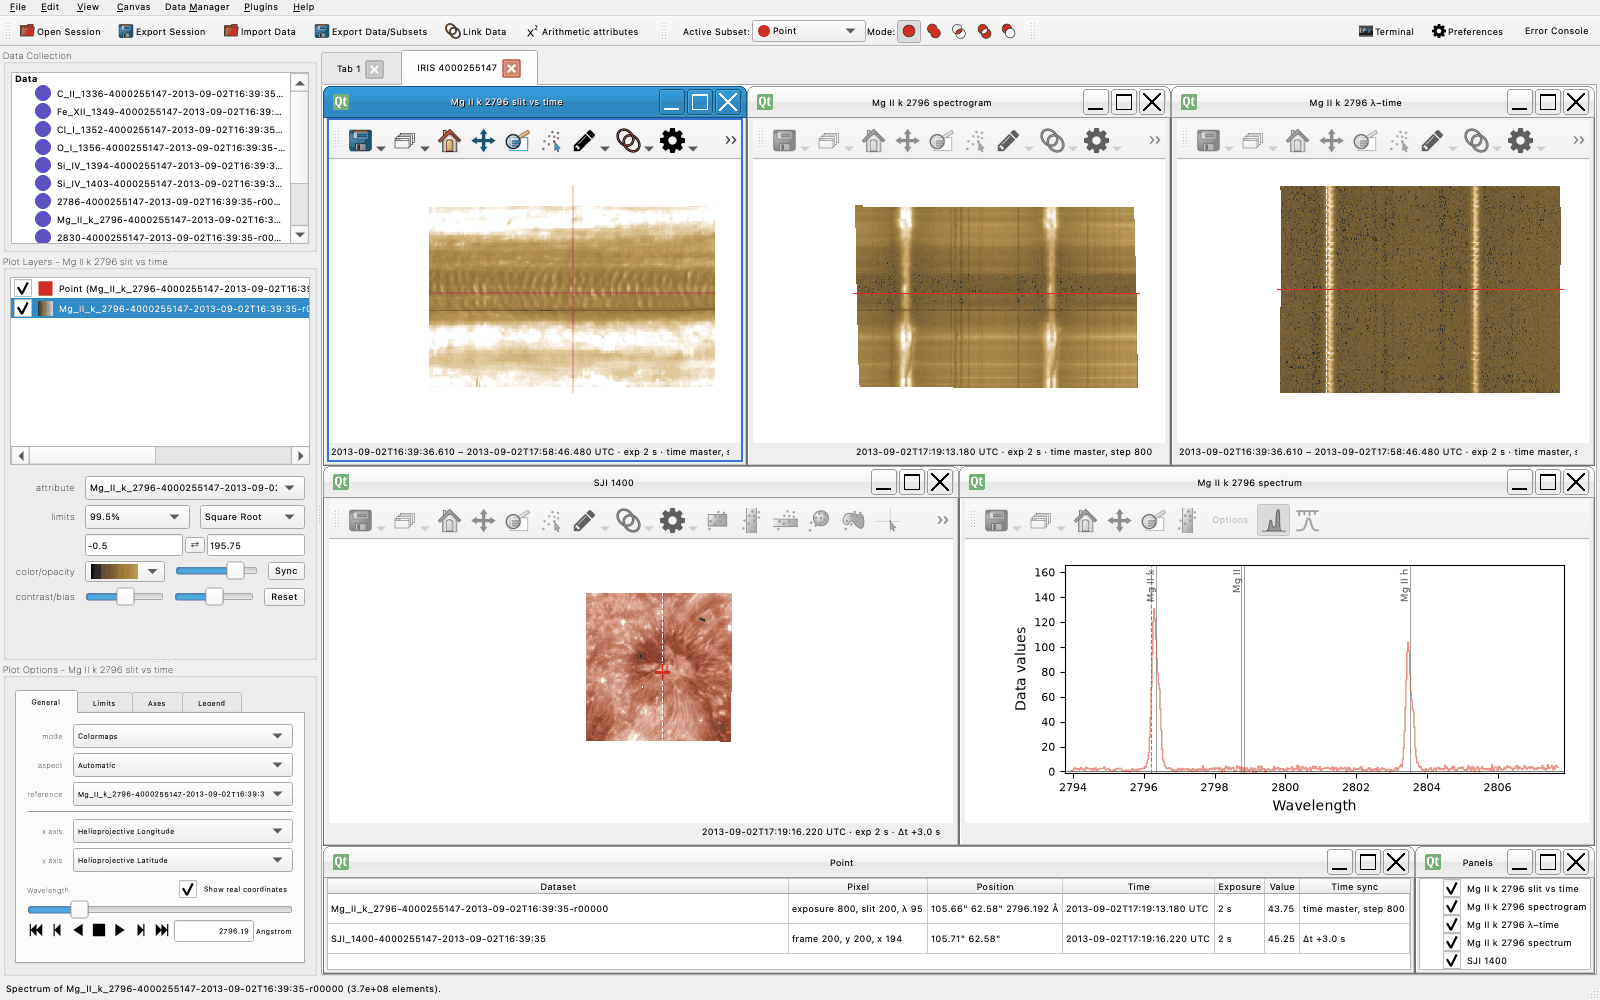
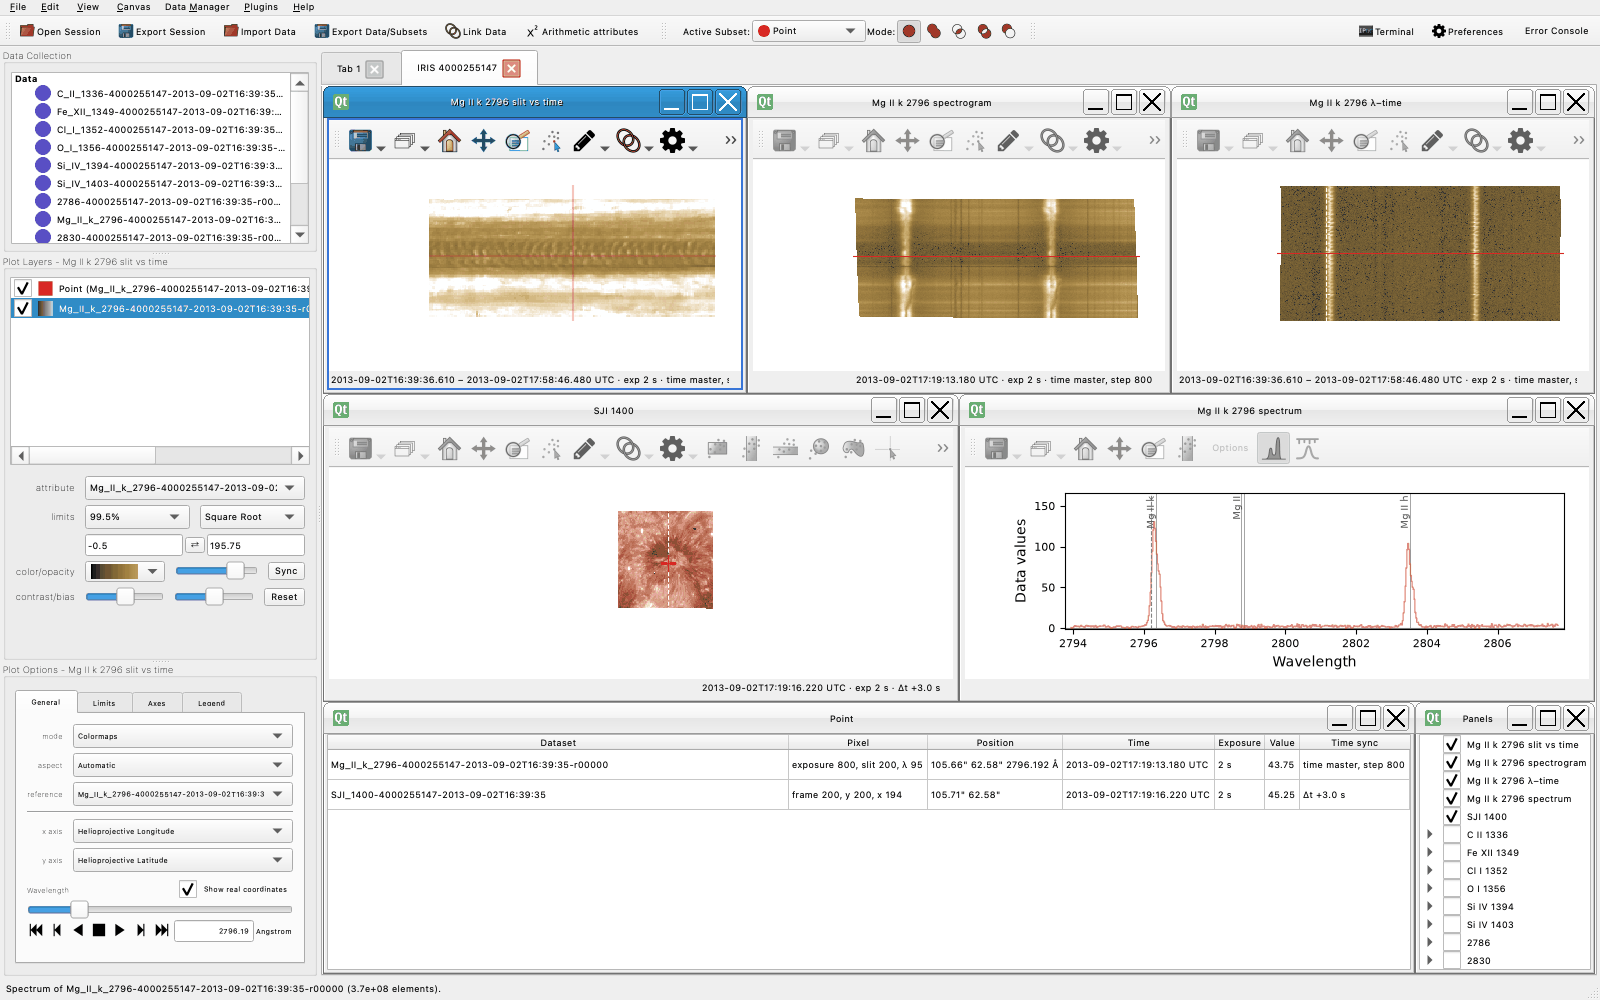
Address the review

Changed region(s): [[0.1875, 0.186, 1.0, 0.961], [0.1875, 0.713, 0.2188, 0.744]]

diff --git a/docs/make_screenshots.py b/docs/make_screenshots.py
@@ -21,6 +21,8 @@ from PIL import Image
 from qtpy import QtWidgets
 from qtpy.QtCore import QSettings, Qt
 
+from astropy.io import fits
+
 from glue_solar.quicklook import quicklook
 from glue_solar.sources.loaders import iris
 from glue_solar.sources.loaders.iris import QtIRISImporter
@@ -98,7 +100,9 @@ def main(folder):
     # 3. the default quicklook of OBSID 4000255147 (Mg II k 2796 and SJI 1400), with a point placed
     raster = next(Path(folder).glob(f"*_{QUICKLOOK}_raster/*_r00000.fits"))
     sji = next(Path(folder).glob(f"*_{QUICKLOOK}_SJI_1400_t000.fits*"))
-    viewers = quicklook(app, [*iris.iris_data(str(raster)), iris.iris_data(str(sji))])
+    header = fits.getheader(raster)  # every window, as ticking the observation in the browser passes them
+    windows = [header[f"TDESC{i}"] for i in range(1, header["NWIN"] + 1)]
+    viewers = quicklook(app, [*iris.iris_data(str(raster)), iris.iris_data(str(sji))], window=windows)
     panels = [viewers["map"], viewers["spectrogram"], viewers["wavelength"], viewers["spectrum"], *viewers["sji"]]
     wait(viewers=panels)
     select_point(viewers["map"], *POINT)

diff --git a/docs/user_guide/iris-quicklook.rst b/docs/user_guide/iris-quicklook.rst
@@ -57,7 +57,7 @@ The raster opens as three panels, chosen from the observation:
 Each slit-jaw channel gets a viewer titled with its channel, such as "SJI 1400". It draws the slit of
 the frame shown as a dashed line and the point as a red cross. The spectrum panel shows the spectrum
 at the point. Below the panels, the Point window gives the point's pixel, position, time, exposure,
-value and time offset in each dataset, and the Panels list turns each panel on and off.
+value and time sync in each dataset, and the Panels list turns each panel on and off.
 
 The map shows the wavelength nearest the window's reference wavelength. The panels use 99.5 % limits
 and a stretch for their band: log in the FUV, square root about Mg II k and h, linear elsewhere in

diff --git a/docs/user_guide/viewer-tools-and-windows.rst b/docs/user_guide/viewer-tools-and-windows.rst
@@ -82,8 +82,8 @@ Image viewer
        the slider.
      -
    * - View → "Physical aspect"
-     - Show the image in its proportions on the sky: a raster's 2″ steps 12 times as wide as its
-       0.17″ slit pixels.
+     - Show the image in its proportions on the sky: a raster with 2″ steps shows each 12 times as
+       wide as its 0.17″ slit pixels.
      -
    * - View → "Color bar"
      - Show a color bar right of the image.
